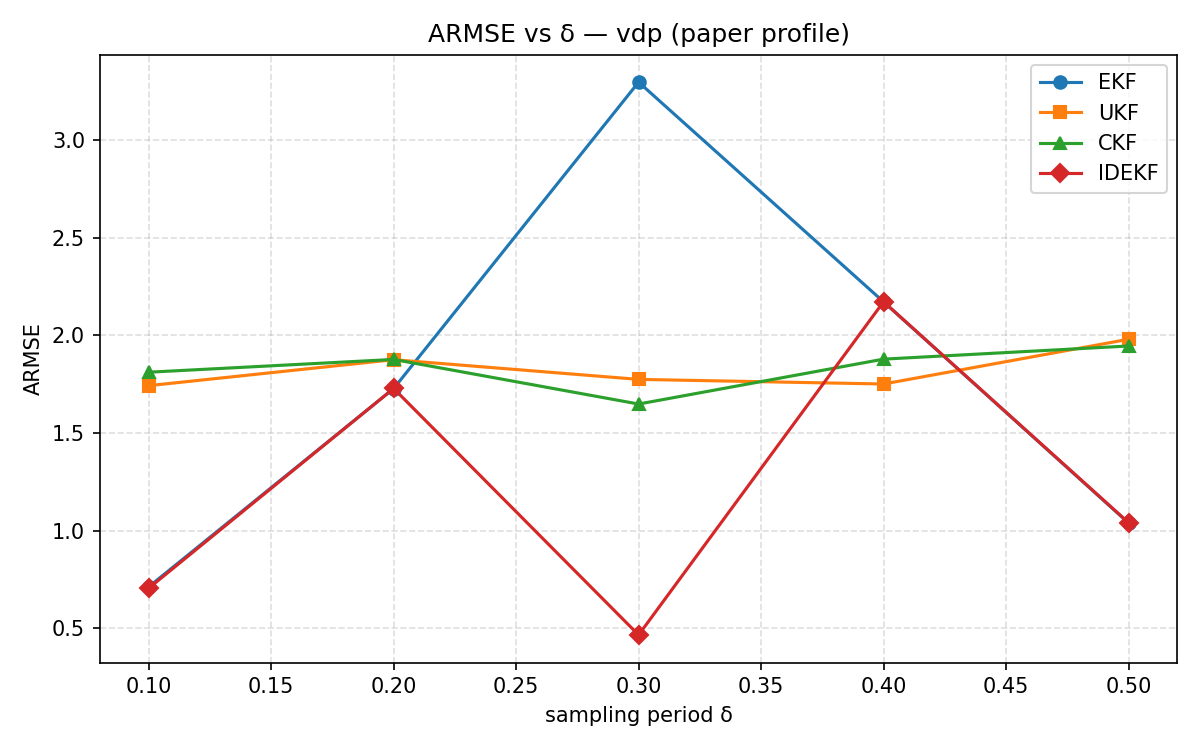
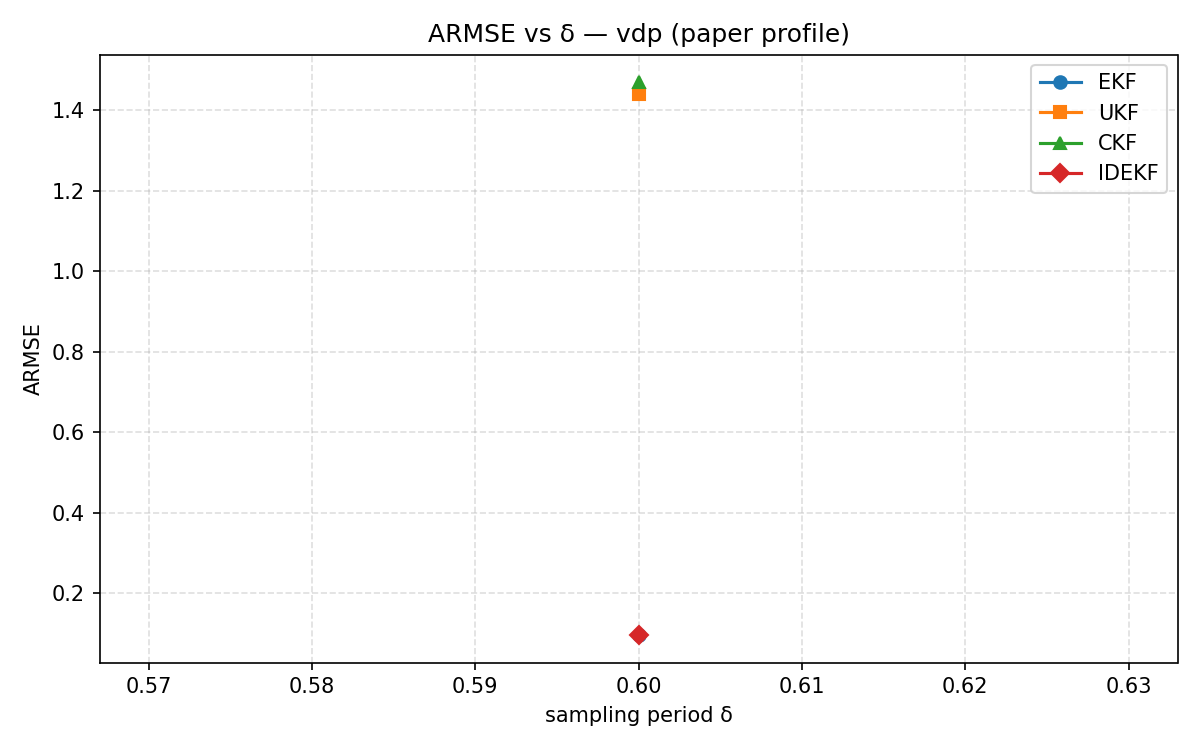
edits

diff --git a/run_armse.py b/run_armse.py
@@ -74,7 +74,7 @@ def run_cd(case: str, deltas: List[float], N_runs: int, seed: int, outdir: str,
         else:
             raise ValueError("case must be 'dahlquist' or 'vdp'")
 
-        cm = ContinuousModel(f=f, J=J, G=G, Qc=Qc)
+        cm = ContinuousModel(f=f, J=J, G=G, Qc=Qc) 
 
         # Uniform sampling grid
         t_grid = np.arange(t0, tf + 1e-12, delta)
@@ -202,10 +202,10 @@ def export_armse_summary(results, outdir, case):
 if __name__ == "__main__":
     parser = argparse.ArgumentParser()
     parser.add_argument("--case", choices=["dahlquist", "vdp"], default="vdp")
-    parser.add_argument("--runs", type=int, default=20)          
+    parser.add_argument("--runs", type=int, default=3)          
     parser.add_argument("--seed", type=int, default=1)
     parser.add_argument("--outdir", type=str, default="results")
-    deltas = [0.4]
+    deltas = [0.6]
     parser.add_argument("--deltas", type=float, nargs="*", default=deltas)
     parser.add_argument("--profile", choices=["paper"], default="paper")
     args = parser.parse_args()
